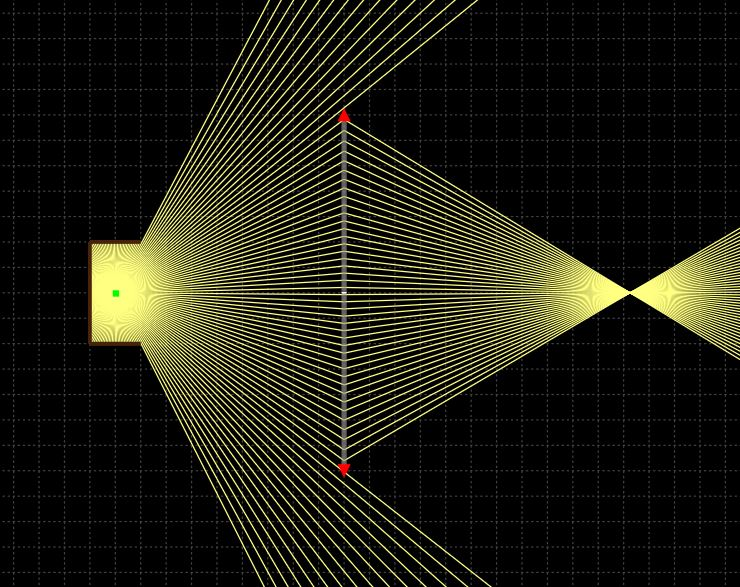
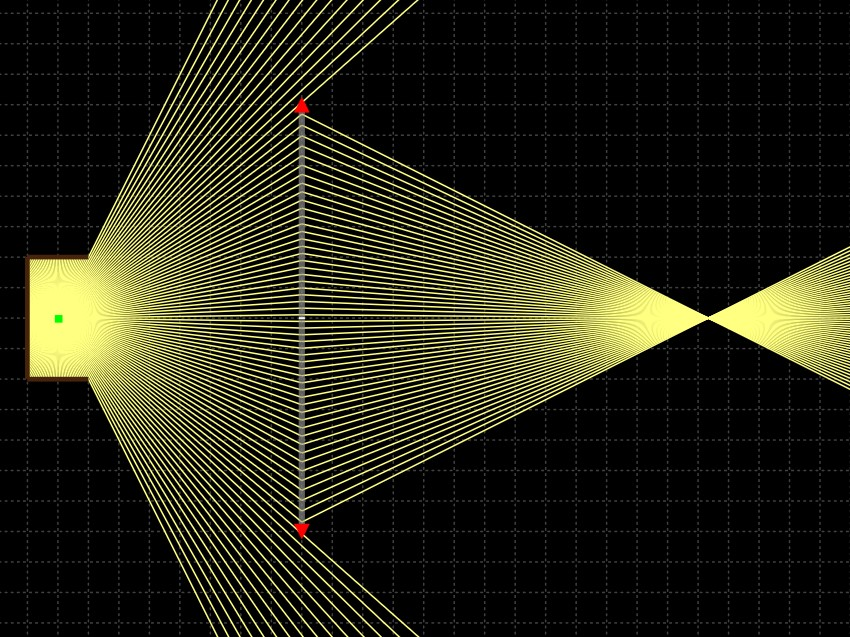
redid images so they all the same size

diff --git a/body/Literature.tex b/body/Literature.tex
@@ -18,6 +18,32 @@ TBC.
 
 Optical communication concerns all manors of communicating information from one party to another through the medium of light. This investigation focuses on the use of light as a means of communication between electronic systems, however it is worth noting that optical communication certainly exist outside of this category.
 
+\subsection{Lenses}
+This projects requires the use of a convex lens to focus a source of light into a narrow beam. 
+
+\begin{figure}[H]
+	\centering
+	\begin{minipage}{.3\textwidth}
+		\centering
+		\includegraphics[width=.8\linewidth]{figures/litreview/lens_divergent_beam.JPG}
+		\captionof{figure}{Divergent}
+		\label{fig:lens_divergent}
+	\end{minipage}%
+	\begin{minipage}{.3\textwidth}
+		\centering
+		\includegraphics[width=.8\linewidth]{figures/litreview/lens_parallel_beam.JPG}
+		\captionof{figure}{Parallel}
+		\label{fig:lens_parallel}
+	\end{minipage}
+	\begin{minipage}{.3\textwidth}
+	\centering
+	\includegraphics[width=.8\linewidth]{figures/litreview/lens_focus_beam.JPG}
+	\captionof{figure}{Convergent}
+	\label{fig:lens_convergent}
+\end{minipage}
+\end{figure}
+
+
 
 \subsection{IR Communication}
 This is where I talk about different IR protocols
